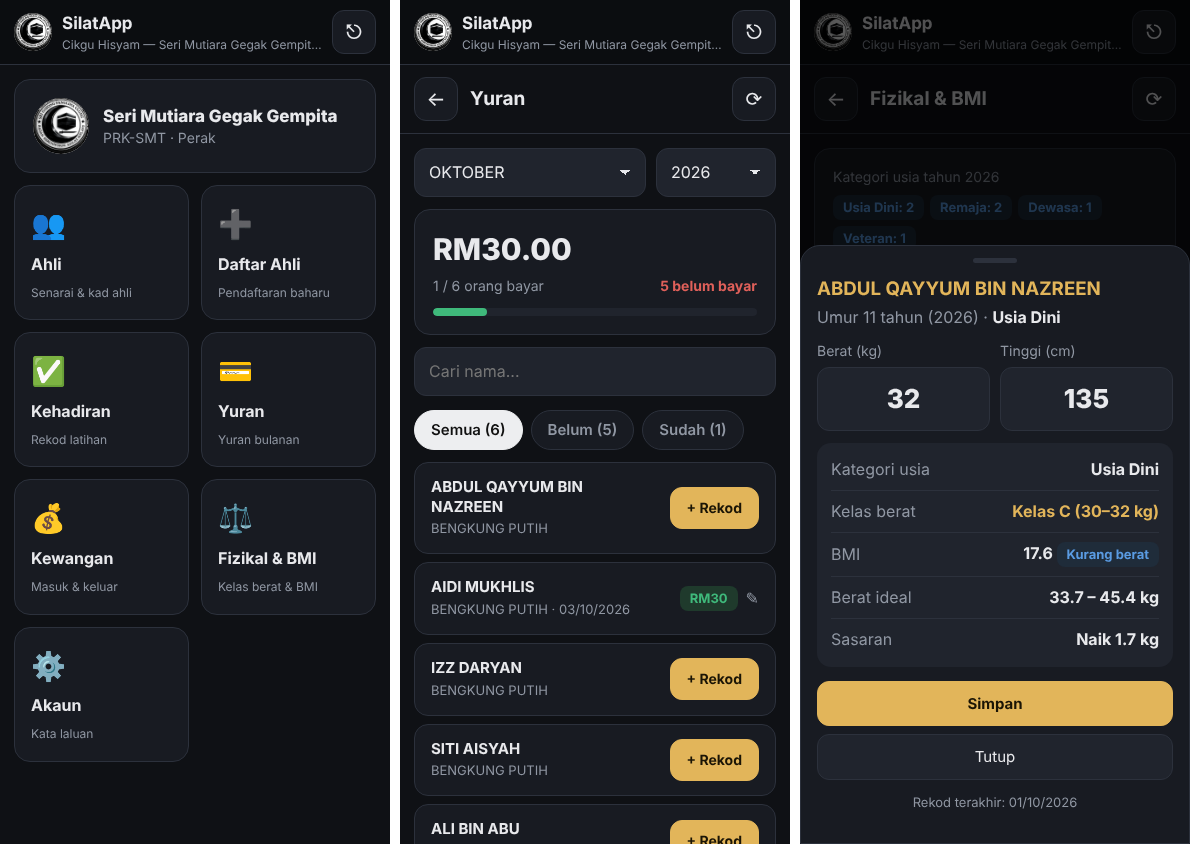
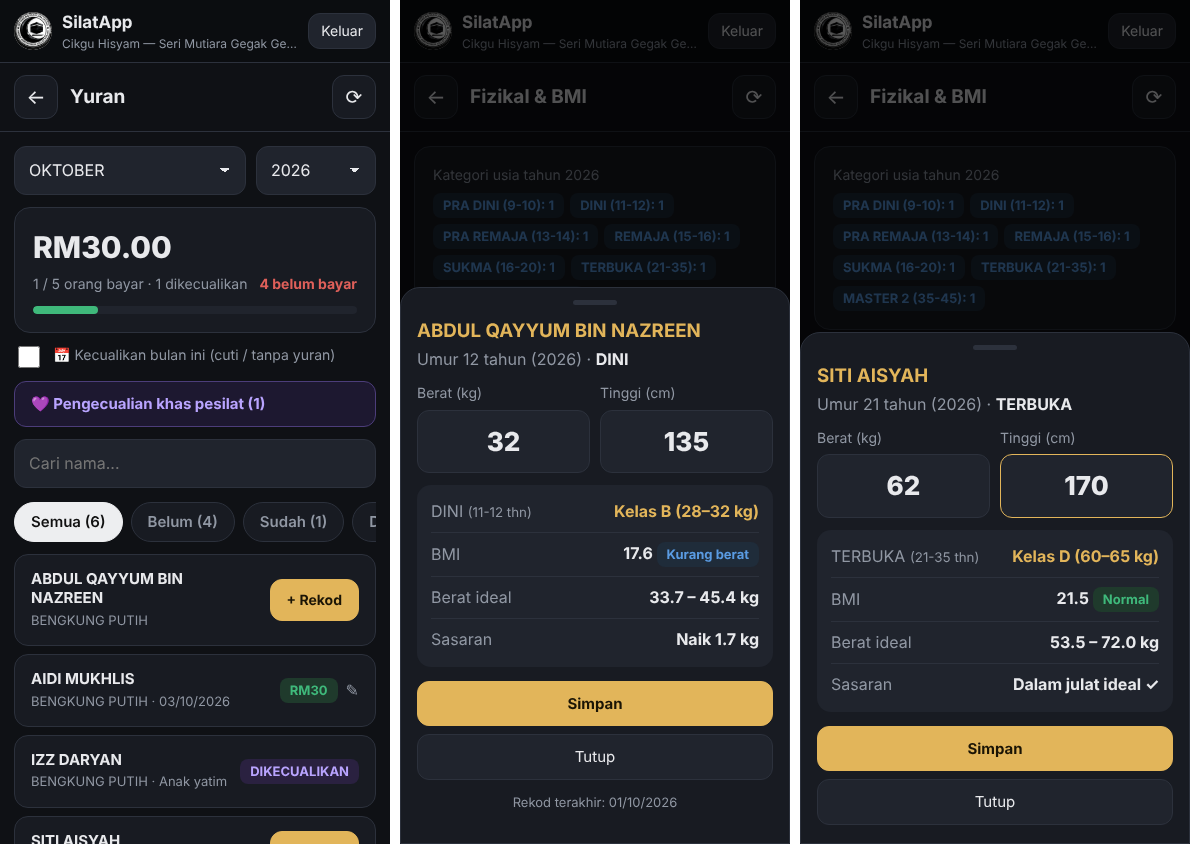
Kelas berat ikut jadual rasmi; pengecualian yuran (bulan & pesilat)
Claude-Session: https://claude.ai/code/session_01GUFecpyumN9vnBRDCjbH1r

diff --git a/index.html b/index.html
@@ -113,22 +113,21 @@ th{color:var(--pudar);font-weight:500;white-space:nowrap}
 /* ====== TETAPAN: URL Web App Apps Script ====== */
 const API_URL = 'https://script.google.com/macros/s/AKfycbwYLSghcfcLVKLg2plYc9Slj8E0KuNu8LX7HOugVTSIWxwCfv2hcBZB_l0uc5JArfxV/exec';
 
-/* ====== KATEGORI USIA & KELAS BERAT (Silat Olahraga / Tanding) ======
-   SILA SEMAK & UBAH ikut peraturan pertandingan terkini.
-   umur = tahun semasa − tahun lahir.
-   janaKelas(berat mula, langkah kg, bilangan kelas) → Kelas A, B, C ...
-   Berat melebihi kelas terakhir = Kelas Bebas. */
-function janaKelas(mula, langkah, bil) {
-  const out = []; for (let i = 0; i < bil; i++) out.push(['Kelas ' + String.fromCharCode(65 + i), mula + i * langkah, mula + (i + 1) * langkah]);
-  return out;
-}
+/* ====== KATEGORI USIA & KELAS BERAT (dari jadual rasmi cikgu) ======
+   umur = tahun semasa − tahun lahir.  kelas: [nama, berat min (kg), berat maks (kg) / null = Bebas]
+   Berat dikira masuk kelas jika: berat min < berat ≤ berat maks.
+   Umur bertindih (cth. 16 = Remaja & Sukma, 35 = Terbuka & Master 2) → semua kategori layak dipaparkan. */
 const KATEGORI_USIA = [
-  { nama: 'Kanak-kanak', min: 0, max: 8, kelas: [] },
-  { nama: 'Usia Dini', min: 9, max: 11, kelas: janaKelas(26, 2, 12) },
-  { nama: 'Pra-Remaja', min: 12, max: 13, kelas: janaKelas(28, 2, 14) },
-  { nama: 'Remaja', min: 14, max: 16, kelas: janaKelas(39, 4, 12) },
-  { nama: 'Dewasa', min: 17, max: 35, kelas: janaKelas(45, 5, 10) },
-  { nama: 'Veteran', min: 36, max: 200, kelas: [] }
+  { nama: "PRA TUNAS", umur: "5-6", min: 5, max: 6, kelas: [["Kelas A", 15, 18], ["Kelas B", 18, 21], ["Kelas C", 21, 24], ["Kelas Bebas", 24, null]] },
+  { nama: "TUNAS", umur: "7-8", min: 7, max: 8, kelas: [["Kelas A", 16, 19], ["Kelas B", 19, 22], ["Kelas C", 22, 25], ["Kelas D", 25, 28], ["Kelas E", 28, 31], ["Kelas Bebas", 31, null]] },
+  { nama: "PRA DINI", umur: "9-10", min: 9, max: 10, kelas: [["Kelas A", 18, 21], ["Kelas B", 21, 24], ["Kelas C", 24, 27], ["Kelas D", 27, 30], ["Kelas E", 30, 33], ["Kelas Bebas", 33, null]] },
+  { nama: "DINI", umur: "11-12", min: 11, max: 12, kelas: [["Kelas A", 24, 28], ["Kelas B", 28, 32], ["Kelas C", 32, 36], ["Kelas D", 36, 40], ["Kelas E", 40, 44], ["Kelas F", 44, 48], ["Kelas G", 48, 52], ["Kelas H", 52, 56], ["Kelas I", 56, 60], ["Kelas Bebas", 60, null]] },
+  { nama: "PRA REMAJA", umur: "13-14", min: 13, max: 14, kelas: [["Kelas A", 33, 37], ["Kelas B", 37, 41], ["Kelas C", 41, 45], ["Kelas D", 45, 49], ["Kelas E", 49, 53], ["Kelas F", 53, 57], ["Kelas G", 57, 61], ["Kelas H", 61, 65], ["Kelas Bebas", 65, null]] },
+  { nama: "REMAJA", umur: "15-16", min: 15, max: 16, kelas: [["Kelas A", 39, 43], ["Kelas B", 43, 47], ["Kelas C", 47, 51], ["Kelas D", 51, 55], ["Kelas E", 55, 59], ["Kelas F", 59, 63], ["Kelas G", 63, 67], ["Kelas H", 67, 71], ["Kelas I", 71, 75], ["Kelas Bebas", 75, null]] },
+  { nama: "SUKMA", umur: "16-20", min: 16, max: 20, kelas: [["Kelas A", 45, 50], ["Kelas B", 50, 55], ["Kelas C", 55, 60], ["Kelas D", 60, 65], ["Kelas E", 65, 70], ["Kelas F", 70, 75], ["Kelas G", 75, 80], ["Kelas H", 80, 85], ["Kelas Bebas", 85, null]] },
+  { nama: "TERBUKA", umur: "21-35", min: 21, max: 35, kelas: [["Kelas A", 45, 50], ["Kelas B", 50, 55], ["Kelas C", 55, 60], ["Kelas D", 60, 65], ["Kelas E", 65, 70], ["Kelas F", 70, 75], ["Kelas G", 75, 80], ["Kelas H", 80, 85], ["Kelas Bebas", 85, null]] },
+  { nama: "MASTER 2", umur: "35-45", min: 35, max: 45, kelas: [["Kelas A", 45, 50], ["Kelas B", 50, 55], ["Kelas C", 55, 60], ["Kelas D", 60, 65], ["Kelas E", 65, 70], ["Kelas F", 70, 75], ["Kelas G", 75, 80], ["Kelas H", 80, 85], ["Kelas I", 85, 90], ["Kelas J", 90, 95], ["Kelas Bebas", 95, null]] },
+  { nama: "MASTER 1", umur: "45+", min: 45, max: 200, kelas: [["Kelas A", 45, 50], ["Kelas B", 50, 55], ["Kelas C", 55, 60], ["Kelas D", 60, 65], ["Kelas E", 65, 70], ["Kelas F", 70, 75], ["Kelas G", 75, 80], ["Kelas H", 80, 85], ["Kelas I", 85, 90], ["Kelas J", 90, 95], ["Kelas Bebas", 95, null]] }
 ];
 /* ================================================================ */
 
@@ -594,28 +593,82 @@ async function laporanHadir() {
     <button class="penuh" onclick="modal('')">Tutup</button>`);
 }
 
-/* ---- Yuran bulanan ---- */
+/* ---- Yuran bulanan + pengecualian ---- */
+const ymKey = () => `${S.ybTahun}-${String(S.ybBulan).padStart(2, '0')}`;
+const bulanKec = () => (S.kec || []).find(k => k.jenis === 'BULAN' && k.mula === ymKey());
+const ahliKec = kp => (S.kec || []).find(k => k.jenis === 'AHLI' && k.no_kp === kp && k.mula <= ymKey() && (!k.tamat || k.tamat >= ymKey()));
+const labelYM = ym => ym ? `${BULAN_PENUH[+ym.slice(5)].slice(0, 3)} ${ym.slice(0, 4)}` : '';
 async function tabYB() {
   const ahli = await muatAhliJur(); if (!ahli) return;
   const d = new Date(); S.ybBulan = S.ybBulan || d.getMonth() + 1; S.ybTahun = S.ybTahun || d.getFullYear();
-  const r = await api('yb_get', { tahun: S.ybTahun }); if (!r.ok) return toast(r.msg);
+  const [r, k] = await Promise.all([api('yb_get', { tahun: S.ybTahun }), api('kec_get')]); if (!r.ok) return toast(r.msg);
   S.yb = {}; r.bayaran.forEach(b => S.yb[b.no_kp + '|' + b.bulan] = b);
+  S.kec = k.ok ? k.senarai : [];
   S.ybAhli = ahli; S.ybTapis = S.ybTapis || 'semua';
   $('#isi').innerHTML = `<div class="baris" style="margin-bottom:12px"><div>${pilihBulan('tabYB', S.ybBulan, 'ybBulan')}</div><div style="flex:none;width:120px">${pilihTahun('tabYB', S.ybTahun, 'ybTahun')}</div></div>
-    <div id="ringYB"></div>${cariBox('cariYB', 'lukisYB')}<div id="cipYB"></div><div id="senYB"></div>${nota}`;
+    <div id="ringYB"></div><div id="kecYB"></div>${cariBox('cariYB', 'lukisYB')}<div id="cipYB"></div><div id="senYB"></div>${nota}`;
   lukisYB();
 }
 function lukisYB() {
-  const sudah = a => S.yb[a.no_kp + '|' + S.ybBulan];
-  const n = S.ybAhli.filter(sudah).length, t = S.ybAhli.length;
+  const sudah = a => S.yb[a.no_kp + '|' + S.ybBulan], bk = bulanKec();
+  const kecuali = S.ybAhli.filter(a => !sudah(a) && ahliKec(a.no_kp));
+  const wajib = S.ybAhli.filter(a => !kecuali.includes(a));
+  const n = wajib.filter(sudah).length, t = wajib.length;
   const jum = S.ybAhli.reduce((x, a) => x + (sudah(a) ? Number(sudah(a).jumlah || 0) : 0), 0);
-  $('#ringYB').innerHTML = ringkasan(rm(jum), `${n} / ${t} orang bayar`, `${t - n} belum bayar`, t ? n / t * 100 : 0);
-  $('#cipYB').innerHTML = cip('ybTapis', [['semua', `Semua (${t})`], ['belum', `Belum (${t - n})`], ['sudah', `Sudah (${n})`]], S.ybTapis, 'lukisYB');
+  $('#ringYB').innerHTML = bk
+    ? `<div class="ring" style="border-color:#4c3d7a"><div class="besar">${rm(jum)}</div><div class="sub"><span>📅 ${BULAN_PENUH[S.ybBulan]} dikecualikan${bk.sebab ? ' — ' + esc(bk.sebab) : ''}</span></div><div class="pudar" style="font-size:13px">Tiada yuran wajib bulan ini.</div></div>`
+    : ringkasan(rm(jum), `${n} / ${t} orang bayar${kecuali.length ? ` · ${kecuali.length} dikecualikan` : ''}`, `${t - n} belum bayar`, t ? n / t * 100 : 0);
+  const kecAhliAktif = (S.kec || []).filter(k => k.jenis === 'AHLI' && (!k.tamat || k.tamat >= ymKey())).length;
+  $('#kecYB').innerHTML = `<label class="cek" style="margin:0 0 10px;color:var(--pudar)"><input type="checkbox" ${bk ? 'checked' : ''} onchange="togolBulanKec(this)"> 📅 Kecualikan bulan ini (cuti / tanpa yuran)</label>
+    <button class="penuh" style="text-align:left;border-color:#4c3d7a;background:#1d1830;color:#B9A4FF;font-weight:700;margin-bottom:12px" onclick="paparKecAhli()">💜 Pengecualian khas pesilat${kecAhliAktif ? ` (${kecAhliAktif})` : ''}</button>`;
+  const cipL = [['semua', `Semua (${S.ybAhli.length})`], ['belum', `Belum (${bk ? 0 : t - n})`], ['sudah', `Sudah (${S.ybAhli.filter(sudah).length})`]];
+  if (kecuali.length) cipL.push(['kecuali', `Dikecualikan (${kecuali.length})`]);
+  $('#cipYB').innerHTML = cip('ybTapis', cipL, S.ybTapis, 'lukisYB');
   const q = ($('#cariYB').value || '').toLowerCase();
-  const l = S.ybAhli.map((a, i) => [a, i]).filter(([a]) => a.nama.toLowerCase().includes(q) && (S.ybTapis === 'semua' || (S.ybTapis === 'sudah') === !!sudah(a)));
-  $('#senYB').innerHTML = l.map(([a, i]) => { const b = sudah(a);
-    return `<div class="item" onclick="bukaYB(${i})"><div class="k"><b>${esc(a.nama)}</b><small>${esc(a.bengkung || a.no_ahli)}${b ? ' · ' + tarikhMY(b.tarikh) : ''}</small></div>
-      <div class="r">${b ? `${tag('RM' + Number(b.jumlah || 0).toFixed(0), 'HIJAU')}<span class="pudar">✎</span>` : `<button class="utama kecil" style="min-height:42px;padding:8px 16px">+ Rekod</button>`}</div></div>`; }).join('') || '<p class="pudar">Tiada.</p>';
+  const padan = a => S.ybTapis === 'semua' || (S.ybTapis === 'sudah' && sudah(a)) || (S.ybTapis === 'kecuali' && kecuali.includes(a))
+    || (S.ybTapis === 'belum' && !bk && !sudah(a) && !kecuali.includes(a));
+  const l = S.ybAhli.map((a, i) => [a, i]).filter(([a]) => a.nama.toLowerCase().includes(q) && padan(a));
+  $('#senYB').innerHTML = l.map(([a, i]) => { const b = sudah(a), ke = !b && ahliKec(a.no_kp);
+    const kanan = b ? `${tag('RM' + Number(b.jumlah || 0).toFixed(0), 'HIJAU')}<span class="pudar">✎</span>`
+      : ke ? `<span class="tag" style="background:#2a2140;color:#B9A4FF">DIKECUALIKAN</span>`
+      : bk ? `<span class="tag t-TIDAK">CUTI</span>`
+      : `<button class="utama kecil" style="min-height:42px;padding:8px 16px">+ Rekod</button>`;
+    return `<div class="item" onclick="bukaYB(${i})"><div class="k"><b>${esc(a.nama)}</b><small>${esc(a.bengkung || a.no_ahli)}${b ? ' · ' + tarikhMY(b.tarikh) : ke && ke.sebab ? ' · ' + esc(ke.sebab) : ''}</small></div><div class="r">${kanan}</div></div>`; }).join('') || '<p class="pudar">Tiada.</p>';
+}
+async function togolBulanKec(el) {
+  const bk = bulanKec();
+  if (bk) {
+    if (!confirm(`Batalkan pengecualian ${BULAN_PENUH[S.ybBulan]} ${S.ybTahun}?`)) { el.checked = true; return; }
+    const r = await api('kec_padam', { id: bk.id }); toast(r.msg); if (r.ok) S.kec = S.kec.filter(k => k.id !== bk.id);
+  } else {
+    const sebab = prompt(`Sebab ${BULAN_PENUH[S.ybBulan]} ${S.ybTahun} dikecualikan? (cth. Cuti sekolah, Ramadan)`, '');
+    if (sebab === null) { el.checked = false; return; }
+    const r = await api('kec_simpan', { jenis: 'BULAN', mula: ymKey(), sebab }); toast(r.msg);
+    if (r.ok) { const k = await api('kec_get'); S.kec = k.senarai || []; }
+  }
+  lukisYB();
+}
+function paparKecAhli() {
+  const nama = {}; S.ybAhli.forEach(a => nama[a.no_kp] = a.nama);
+  const l = (S.kec || []).filter(k => k.jenis === 'AHLI');
+  const y = S.ybTahun, opsBulan = (id, v) => `<select id="${id}"><option value="">${id === 'keTamat' ? 'Berterusan' : '— Bulan —'}</option>${[y - 1, y, y + 1].flatMap(t => BULAN_PENUH.slice(1).map((b, i) => { const k = `${t}-${String(i + 1).padStart(2, '0')}`; return `<option value="${k}" ${k === v ? 'selected' : ''}>${b.slice(0, 3)} ${t}</option>`; })).join('')}</select>`;
+  modal(`<h3 style="color:#B9A4FF;margin-top:0">💜 Pengecualian Khas Pesilat</h3>
+    <p class="pudar" style="font-size:13px;margin-top:0">Pesilat yang dikecualikan tidak dikira "belum bayar" (cth. anak yatim, asnaf, anak jurulatih).</p>
+    ${l.map(k => `<div class="item" style="cursor:default"><div class="k"><b>${esc(nama[k.no_kp] || k.no_kp)}</b><small>${esc(k.sebab || '-')} · ${labelYM(k.mula)} → ${k.tamat ? labelYM(k.tamat) : 'berterusan'}</small></div><button class="kecil bahaya" onclick="padamKec('${esc(k.id)}')">Batal</button></div>`).join('') || '<p class="pudar">Tiada pengecualian lagi.</p>'}
+    <h3 style="color:var(--emas);font-size:15px;margin:16px 0 0">Tambah pengecualian</h3>
+    <label>Pesilat</label><select id="keKp">${S.ybAhli.map(a => `<option value="${esc(a.no_kp)}">${esc(a.nama)}</option>`).join('')}</select>
+    <label>Sebab</label><input id="keSebab" list="keL" placeholder="cth. Anak yatim"><datalist id="keL"><option>Anak yatim</option><option>Asnaf / B40</option><option>Anak jurulatih</option><option>Adik-beradik</option><option>Biasiswa gelanggang</option></datalist>
+    <div class="baris"><div><label>Mula</label>${opsBulan('keMula', ymKey())}</div><div><label>Hingga</label>${opsBulan('keTamat', '')}</div></div>
+    <button class="utama penuh" style="margin-top:14px" onclick="simpanKec()">Simpan Pengecualian</button>
+    <button class="penuh" style="margin-top:8px" onclick="modal('')">Tutup</button>`);
+}
+async function simpanKec() {
+  const r = await api('kec_simpan', { jenis: 'AHLI', no_kp: $('#keKp').value, sebab: $('#keSebab').value, mula: $('#keMula').value, tamat: $('#keTamat').value });
+  toast(r.msg); if (r.ok) { const k = await api('kec_get'); S.kec = k.senarai || []; lukisYB(); paparKecAhli(); }
+}
+async function padamKec(id) {
+  if (!confirm('Batalkan pengecualian ini?')) return;
+  const r = await api('kec_padam', { id }); toast(r.msg); if (r.ok) { S.kec = S.kec.filter(k => k.id !== id); lukisYB(); paparKecAhli(); }
 }
 function bukaYB(i) {
   const a = S.ybAhli[i], bulan = S.ybBulan, b = S.yb[a.no_kp + '|' + bulan];
@@ -684,13 +737,13 @@ function eksportKew() {
 
 /* ---- Fizikal & BMI: kategori usia, kelas berat, BMI & berat ideal ---- */
 function umurTahunIni(a) { const y = Number(String(a.tarikh_lahir || '').slice(0, 4)) || Number(tarikhDariKP(a.no_kp).slice(0, 4)); return y ? new Date().getFullYear() - y : null; }
-function kategoriUsia(umur) { return umur == null ? null : KATEGORI_USIA.find(k => umur >= k.min && umur <= k.max) || null; }
+function kategoriUsia(umur) { return umur == null ? [] : KATEGORI_USIA.filter(k => umur >= k.min && umur <= k.max); }
+const namaKat = kats => kats.length ? kats.map(k => k.nama).join(' / ') : 'Tiada kategori';
 function kelasBerat(kat, berat) {
-  if (!kat || !kat.kelas.length || !(berat > 0)) return '';
-  const k = kat.kelas.find(c => berat > c[1] - 0.0001 && berat <= c[2]);
-  if (k) return `${k[0]} (${k[1]}–${k[2]} kg)`;
-  if (berat > kat.kelas[kat.kelas.length - 1][2]) return 'Kelas Bebas';
-  return `Bawah ${kat.kelas[0][1]} kg`;
+  if (!kat || !(berat > 0)) return '';
+  const k = kat.kelas.find(c => berat > c[1] && (c[2] == null || berat <= c[2]));
+  if (k) return k[2] == null ? `${k[0]} (>${k[1]} kg)` : `${k[0]} (${k[1]}–${k[2]} kg)`;
+  return `Bawah had (≤${kat.kelas[0][1]} kg)`;
 }
 function infoBMI(berat, tinggi) {
   if (!(berat > 0 && tinggi > 0)) return null;
@@ -706,24 +759,24 @@ async function tabFiz() {
   S.fizAhli = ahli.map(a => { const u = umurTahunIni(a); return Object.assign({}, a, { umur: u, kat: kategoriUsia(u) }); });
   S.fTapis = S.fTapis || 'semua';
   $('#isi').innerHTML = `<div class="ring"><div class="pudar" style="font-size:14px">Kategori usia tahun ${new Date().getFullYear()}</div>
-    <div style="display:flex;flex-wrap:wrap;gap:6px;margin-top:8px">${KATEGORI_USIA.map(k => { const n = S.fizAhli.filter(a => a.kat === k).length; return n ? tag(`${k.nama}: ${n}`, 'BIRU') : ''; }).join('')}</div></div>
+    <div style="display:flex;flex-wrap:wrap;gap:6px;margin-top:8px">${KATEGORI_USIA.map(k => { const n = S.fizAhli.filter(a => a.kat.includes(k)).length; return n ? tag(`${k.nama} (${k.umur}): ${n}`, 'BIRU') : ''; }).join('')}</div></div>
     ${cariBox('cariF', 'lukisFiz')}<div id="cipF"></div><div id="senF"></div>${nota}`;
   lukisFiz();
 }
 function lukisFiz() {
-  const kats = KATEGORI_USIA.filter(k => S.fizAhli.some(a => a.kat === k));
+  const kats = KATEGORI_USIA.filter(k => S.fizAhli.some(a => a.kat.includes(k)));
   $('#cipF').innerHTML = cip('fTapis', [['semua', 'Semua']].concat(kats.map(k => [k.nama, k.nama])), S.fTapis, 'lukisFiz');
   const q = ($('#cariF').value || '').toLowerCase();
-  $('#senF').innerHTML = S.fizAhli.map((a, i) => [a, i]).filter(([a]) => a.nama.toLowerCase().includes(q) && (S.fTapis === 'semua' || (a.kat && a.kat.nama === S.fTapis))).map(([a, i]) => {
-    const f = S.fizTerkini[a.no_kp], b = f ? infoBMI(+f.berat, +f.tinggi) : null, kl = f && f.berat ? kelasBerat(a.kat, +f.berat) : '';
+  $('#senF').innerHTML = S.fizAhli.map((a, i) => [a, i]).filter(([a]) => a.nama.toLowerCase().includes(q) && (S.fTapis === 'semua' || a.kat.some(k => k.nama === S.fTapis))).map(([a, i]) => {
+    const f = S.fizTerkini[a.no_kp], b = f ? infoBMI(+f.berat, +f.tinggi) : null, kl = f && f.berat ? a.kat.map(k => kelasBerat(k, +f.berat).split(' (')[0]).join(' / ') : '';
     return `<div class="item" onclick="bukaFiz(${i})"><div class="k"><b>${esc(a.nama)}</b>
-      <small>${a.umur != null ? a.umur + ' thn · ' + (a.kat ? a.kat.nama : '-') : 'Tarikh lahir tiada'}${f && f.berat ? ' · ' + esc(f.berat) + ' kg' + (kl ? ' · ' + esc(kl) : '') : ''}</small></div>
+      <small>${a.umur != null ? a.umur + ' thn · ' + namaKat(a.kat) : 'Tarikh lahir tiada'}${f && f.berat ? ' · ' + esc(f.berat) + ' kg' + (kl ? ' · ' + esc(kl) : '') : ''}</small></div>
       <div class="r">${b ? tag('BMI ' + b.bmi, b.w) : `<button class="utama kecil" style="min-height:42px">+ Rekod</button>`}</div></div>`; }).join('') || '<p class="pudar">Tiada.</p>';
 }
 function bukaFiz(i) {
   const a = S.fizAhli[i], f = S.fizTerkini[a.no_kp]; S.fPilih = a;
   modal(`<h3 style="color:var(--emas);margin:0">${esc(a.nama)}</h3>
-    <p class="pudar" style="margin:4px 0 0">${a.umur != null ? `Umur ${a.umur} tahun (${new Date().getFullYear()}) · <b style="color:var(--teks)">${a.kat ? a.kat.nama : '-'}</b>` : 'Tarikh lahir tiada — kemas kini di menu Ahli'}</p>
+    <p class="pudar" style="margin:4px 0 0">${a.umur != null ? `Umur ${a.umur} tahun (${new Date().getFullYear()}) · <b style="color:var(--teks)">${namaKat(a.kat)}</b>` : 'Tarikh lahir tiada — kemas kini di menu Ahli'}</p>
     <div class="baris"><div><label>Berat (kg)</label><input id="fBerat" class="besarInput" inputmode="decimal" value="${esc(f ? f.berat : '')}" oninput="kiraFiz()"></div>
       <div><label>Tinggi (cm)</label><input id="fTinggi" class="besarInput" inputmode="decimal" value="${esc(f ? f.tinggi : '')}" oninput="kiraFiz()"></div></div>
     <div class="kotakHasil" id="fHasil"></div>
@@ -734,15 +787,15 @@ function bukaFiz(i) {
 }
 function kiraFiz() {
   const a = S.fPilih, b = parseFloat($('#fBerat').value), t = parseFloat($('#fTinggi').value), info = infoBMI(b, t);
-  $('#fHasil').innerHTML = `<div class="bar2"><span class="pudar">Kategori usia</span><b>${a.kat ? a.kat.nama : '-'}</b></div>
-    <div class="bar2"><span class="pudar">Kelas berat</span><b style="color:var(--emas)">${b > 0 ? (a.kat && a.kat.kelas.length ? kelasBerat(a.kat, b) : 'Tiada kelas') : '-'}</b></div>
+  $('#fHasil').innerHTML = (a.kat.length ? a.kat.map(k => `<div class="bar2"><span class="pudar">${esc(k.nama)} <small>(${esc(k.umur)} thn)</small></span><b style="color:var(--emas)">${b > 0 ? kelasBerat(k, b) : '-'}</b></div>`).join('')
+      : `<div class="bar2"><span class="pudar">Kategori usia</span><b>Tiada kategori</b></div>`) + `
     <div class="bar2"><span class="pudar">BMI</span><b>${info ? `${info.bmi} ${tag(info.k, info.w)}` : '<span class="pudar">isi berat & tinggi</span>'}</b></div>
     <div class="bar2"><span class="pudar">Berat ideal</span><b>${info ? info.ideal : '-'}</b></div>
     <div class="bar2"><span class="pudar">Sasaran</span><b>${info ? info.beza : '-'}</b></div>`;
 }
 async function simpanFiz() {
   const a = S.fPilih, b = $('#fBerat').value, t = $('#fTinggi').value;
-  const r = await api('fiz_simpan', { no_kp: a.no_kp, tarikh: hariIniStr(), berat: b, tinggi: t, catatan: kelasBerat(a.kat, parseFloat(b)) });
+  const r = await api('fiz_simpan', { no_kp: a.no_kp, tarikh: hariIniStr(), berat: b, tinggi: t, catatan: a.kat.map(k => k.nama + ' ' + kelasBerat(k, parseFloat(b))).join('; ') });
   toast(r.msg); if (r.ok) { S.fizTerkini[a.no_kp] = { berat: b, tinggi: t, tarikh: hariIniStr() }; modal(''); lukisFiz(); }
 }
 
